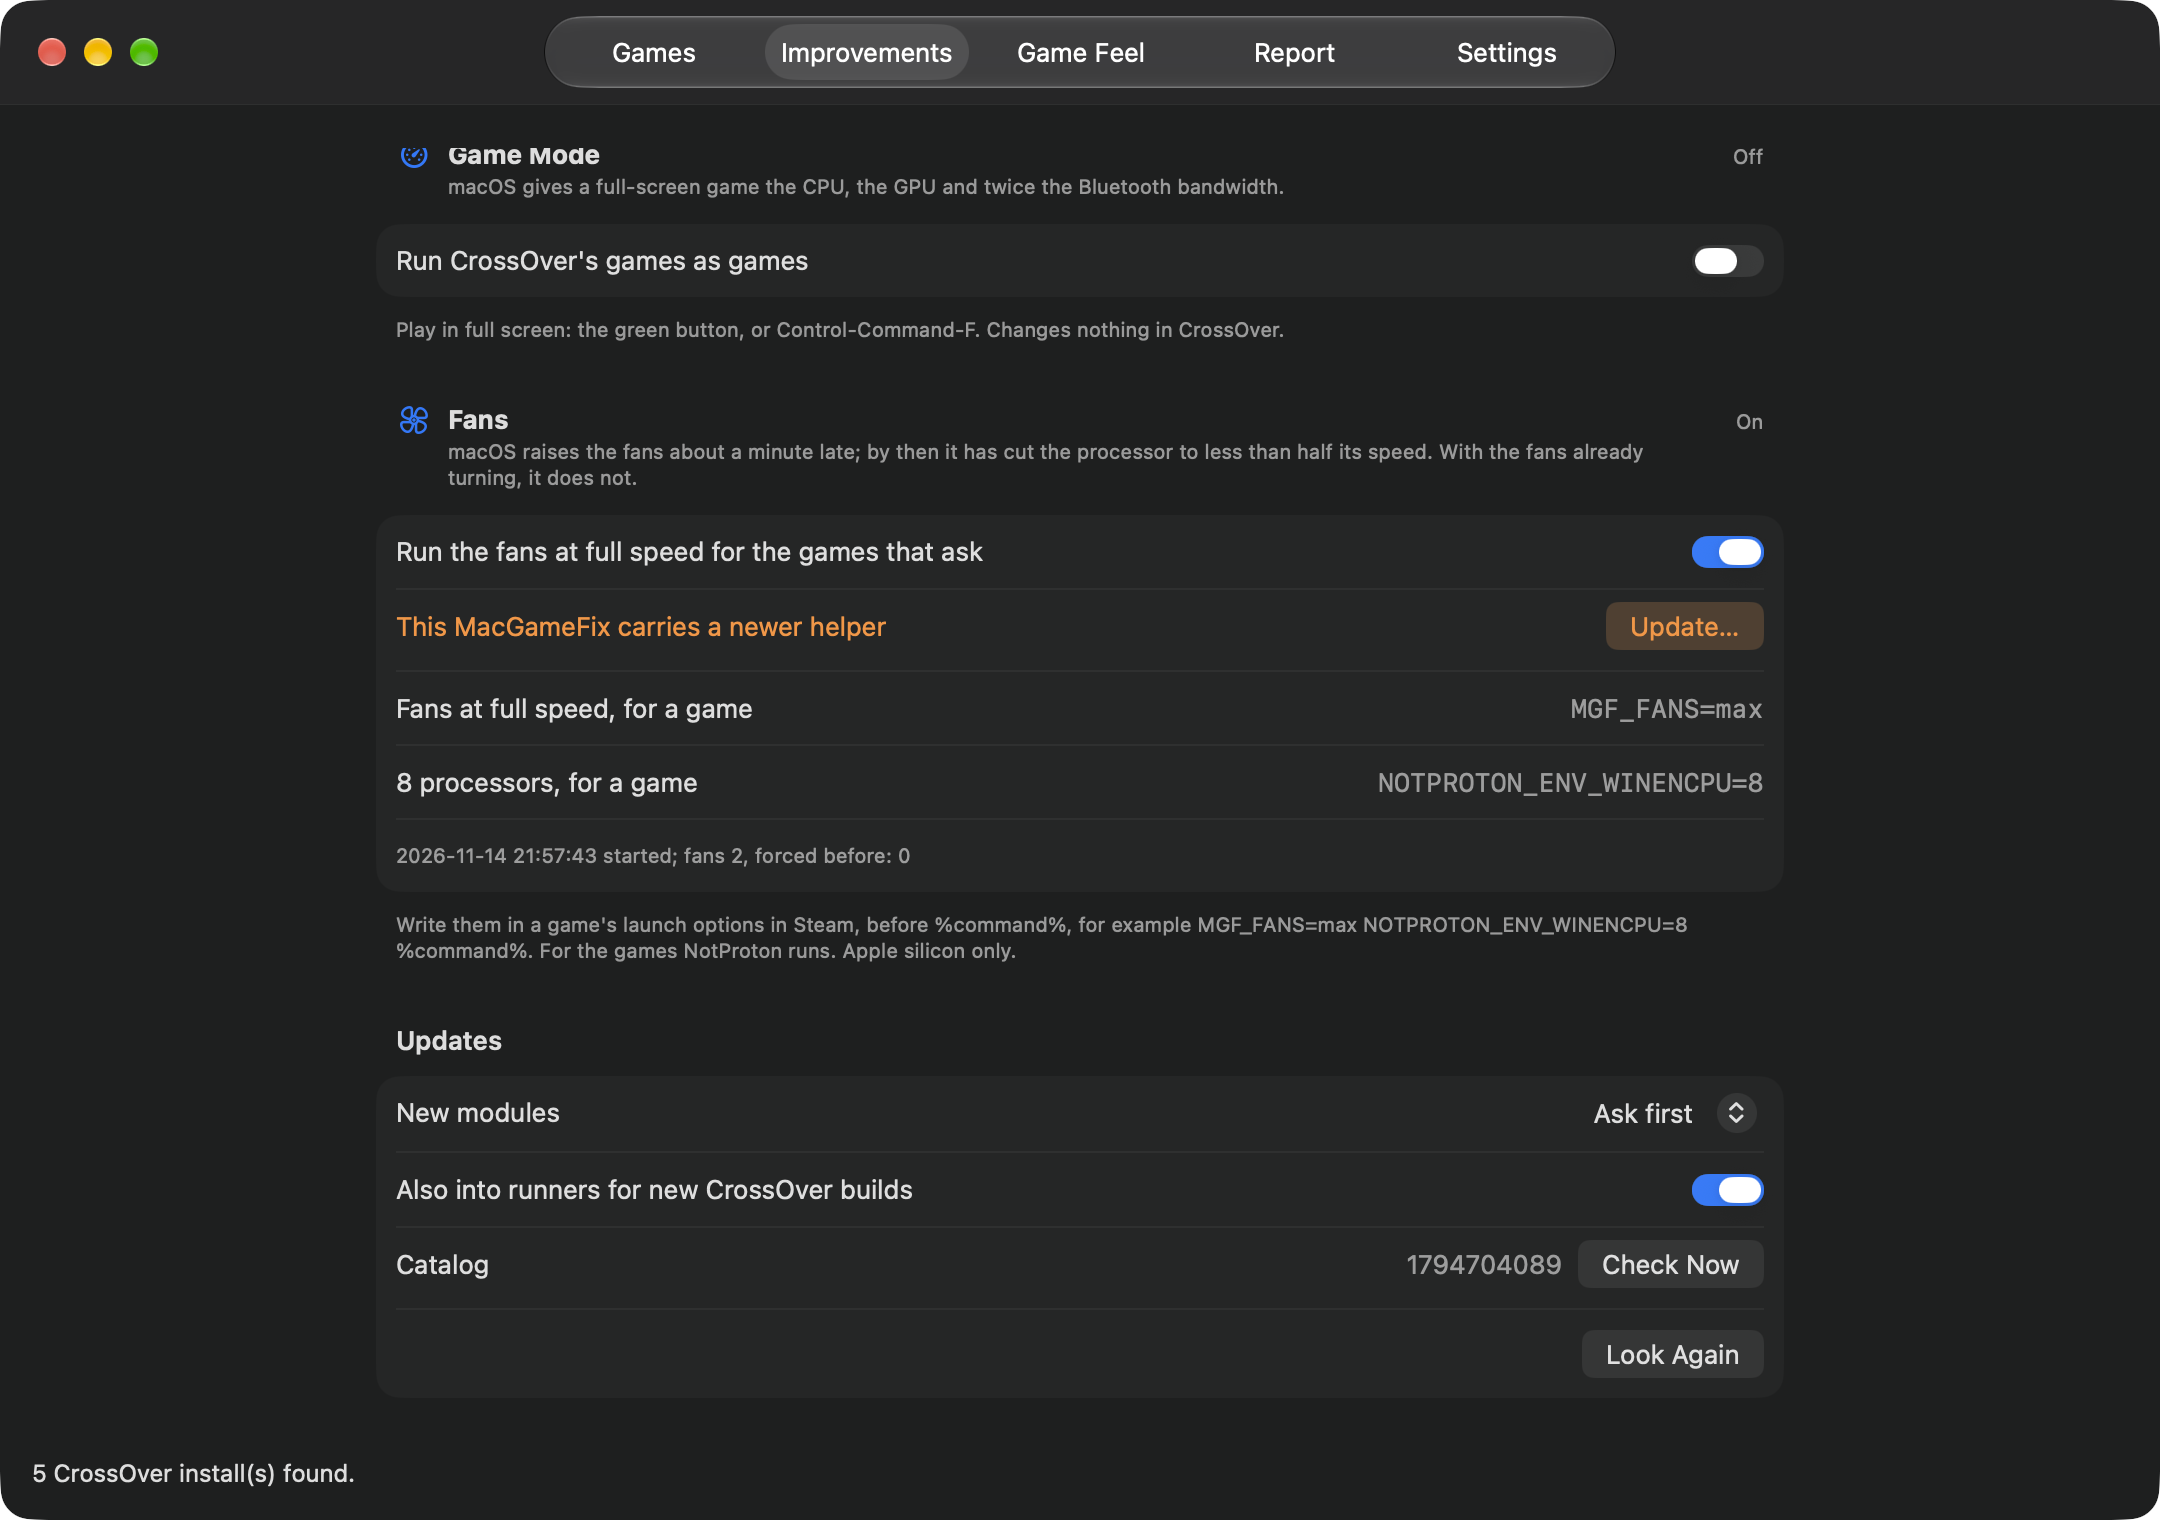
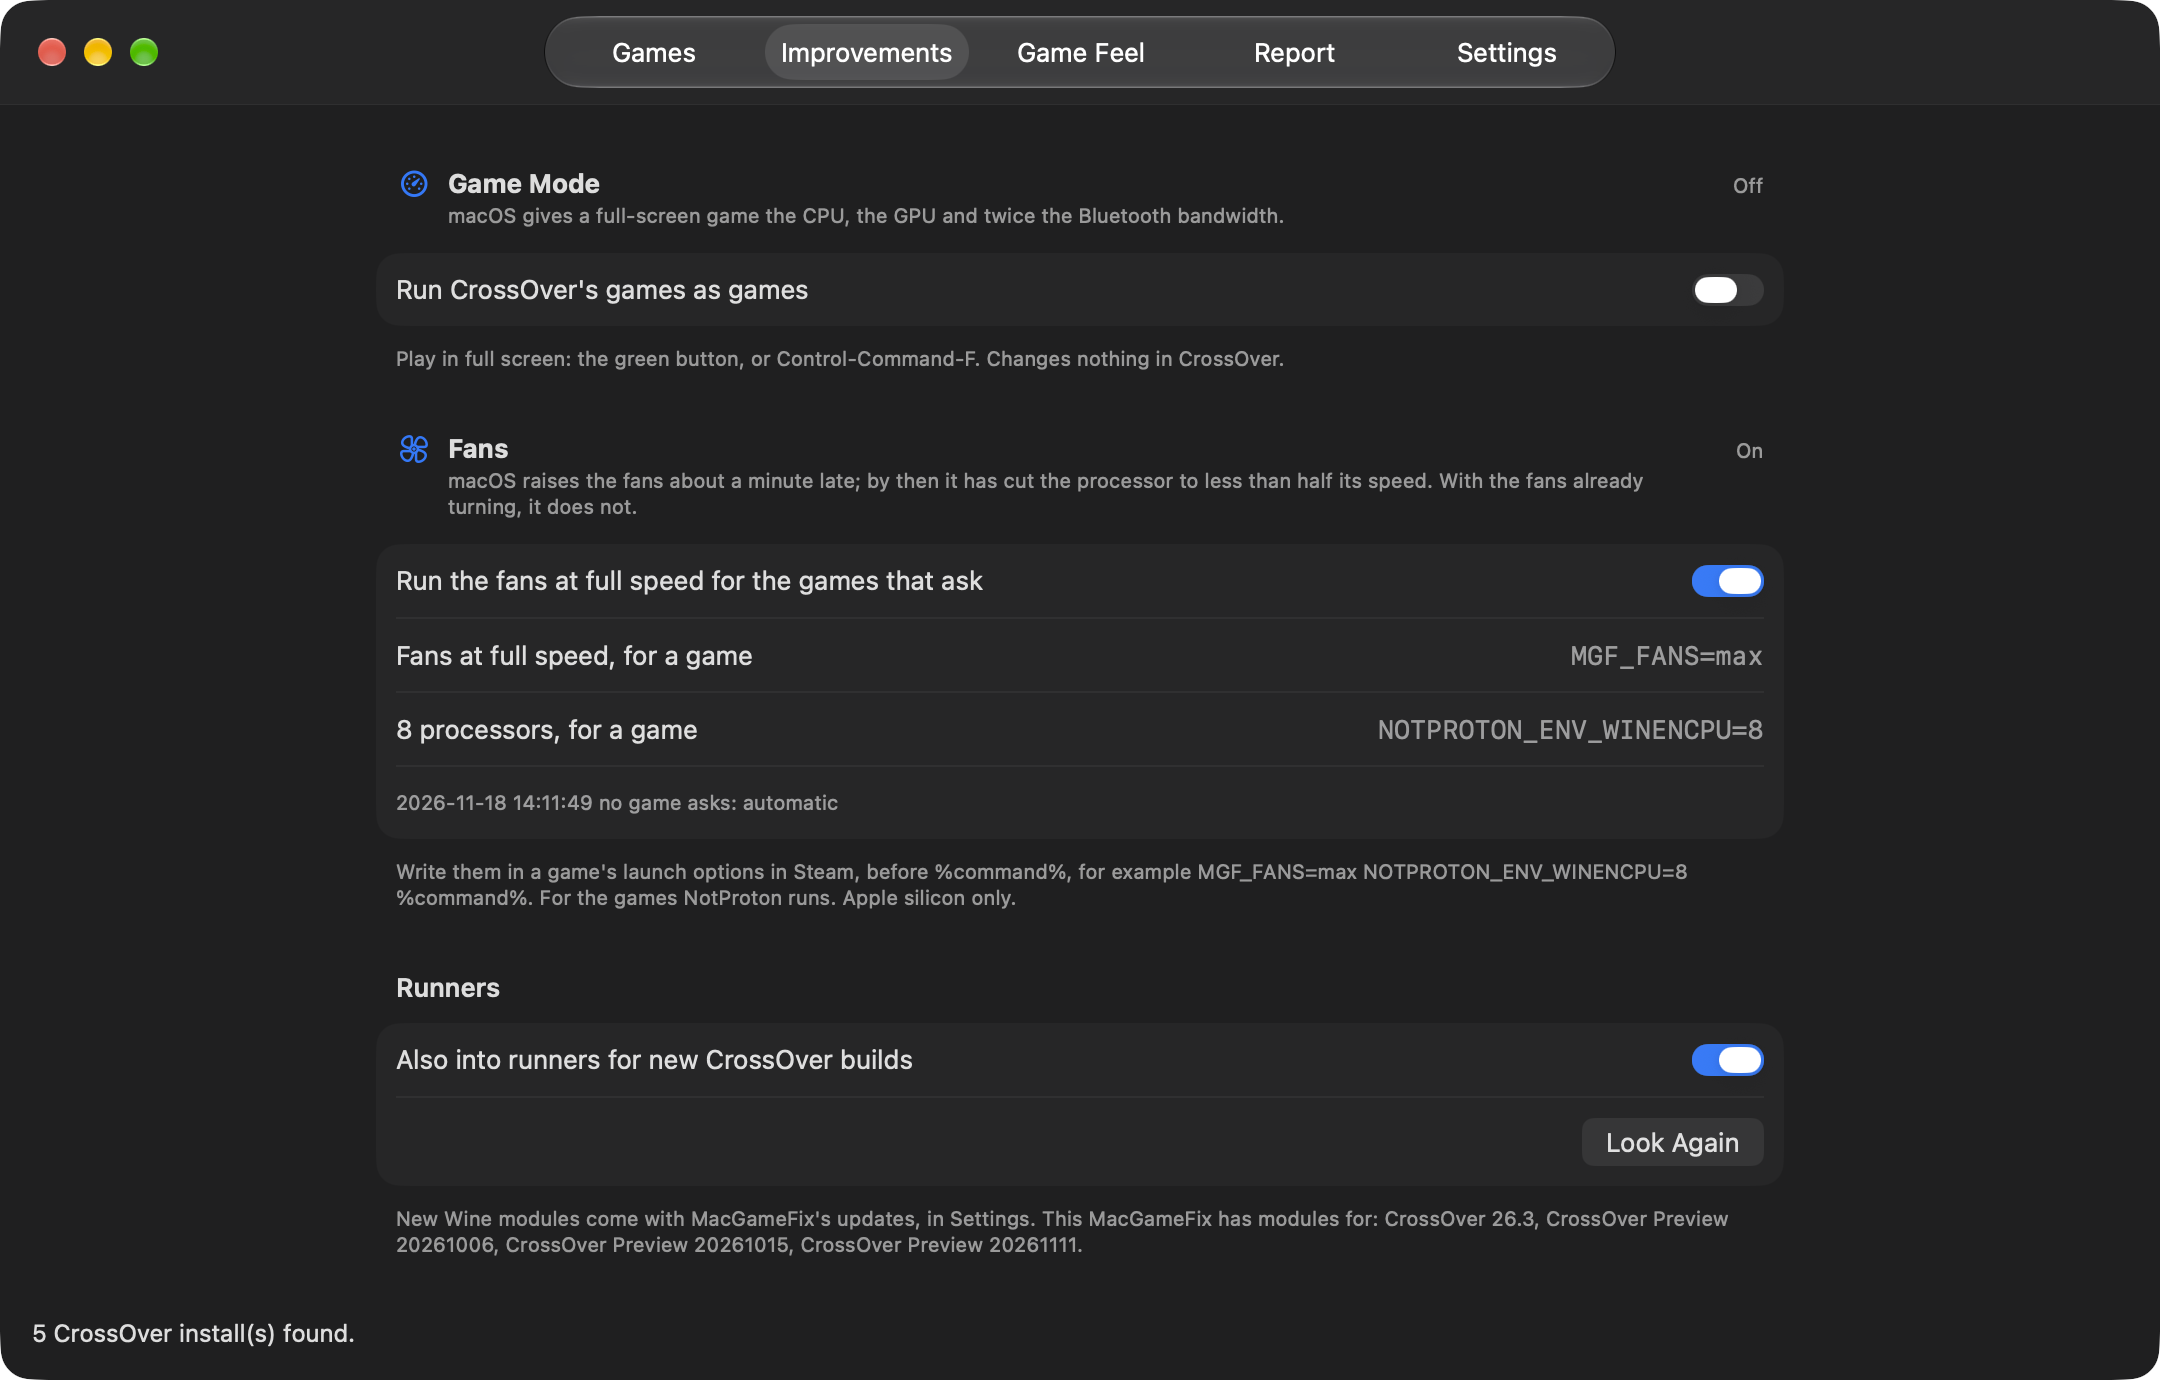
docs: improvements-fans.png shows the tab as 1.6.4 ends it, in Runners
The image still had the Updates section that 1.6.3 kept at the end of
Improvements (New modules, Catalog, Check Now). 1.6.4 moved the modules'
updates to Settings and left a Runners section there.

Taken from main at 8081f0a in an empty home with three runner folders.
The helper line that read "This MacGameFix carries a newer helper" is
gone too: since #78 it shows only for a real update, so the note about
it leaves the README.

diff --git a/docs/images/README.md b/docs/images/README.md
@@ -12,7 +12,7 @@ is the tab, then the state or sheet; pages link to them by name, so a name stays
 | `games-instructions-heat.png` | The same sheet, scrolled: Frame rate, Heat, and the optional variables |
 | `improvements.png` | Improvements: DualSense controllers and Copy protection under Rosetta, a switch per CrossOver app and NotProton runner |
 | `improvements-rosetta.png` | The same tab, scrolled: Copy protection under Rosetta with its All and None, and Game Mode |
-| `improvements-fans.png` | The same tab, scrolled to the end: Game Mode, Fans with the two variables to copy, and the modules' updates |
+| `improvements-fans.png` | The same tab, scrolled to the end: Game Mode, Fans with the two variables to copy, and Runners |
 | `game-feel.png` | Game Feel: every game's options, and each game's own |
 | `game-feel-every-game.png` | Every Game's Settings: the options and the haptics' strength |
 | `game-feel-every-game-triggers.png` | The same sheet, scrolled: the tries and the trigger effects |
@@ -30,9 +30,13 @@ The two of a game's instructions were taken later the same day, from the app as 
 `settings.png` was taken again on 2026-11-18 from a build of the branch that added the catalogs' numbers and
 "Looks for updates" to Settings › Updates (its catalogs are that build's own, 1795015469), in an empty home.
 
+`improvements-fans.png` was taken again the same day from main at 8081f0a (1.6.4 with #104), which ends the tab
+in Runners: the modules' updates moved to Settings in 1.6.4. Its home is empty but for three NotProton runner
+folders that hold CrossOver's file names only, with no modules in them. Fans shows the Mac's own helper, which
+the home does not stand in for: it is installed, and the line under the variables is the last of its log.
+
 Not pictured: the Not fixed filter, and the two questions asked before an improvement goes into every CrossOver
-or into a CrossOver app. In `improvements-fans.png` the helper reads as older than the app's, which is how that
-build told every new build apart; since #78 it compares versions, and that line shows only for a real update.
+or into a CrossOver app.
 
 ## How they are taken
 
